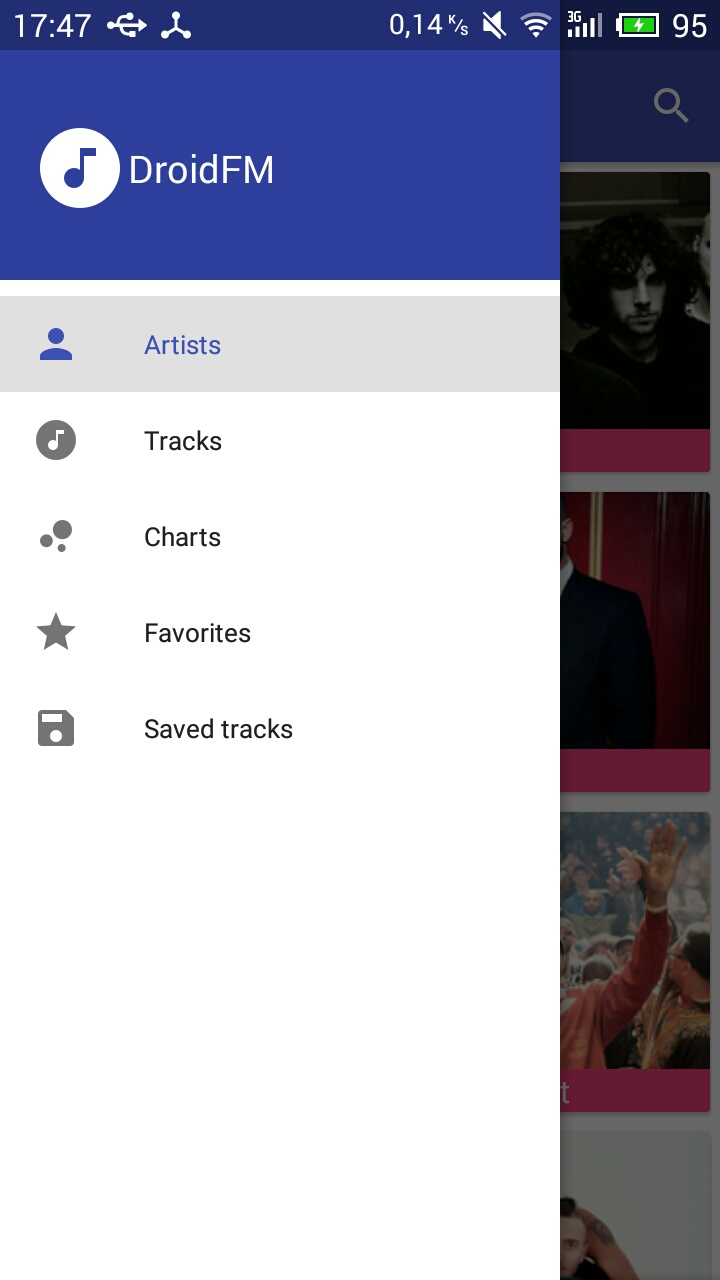
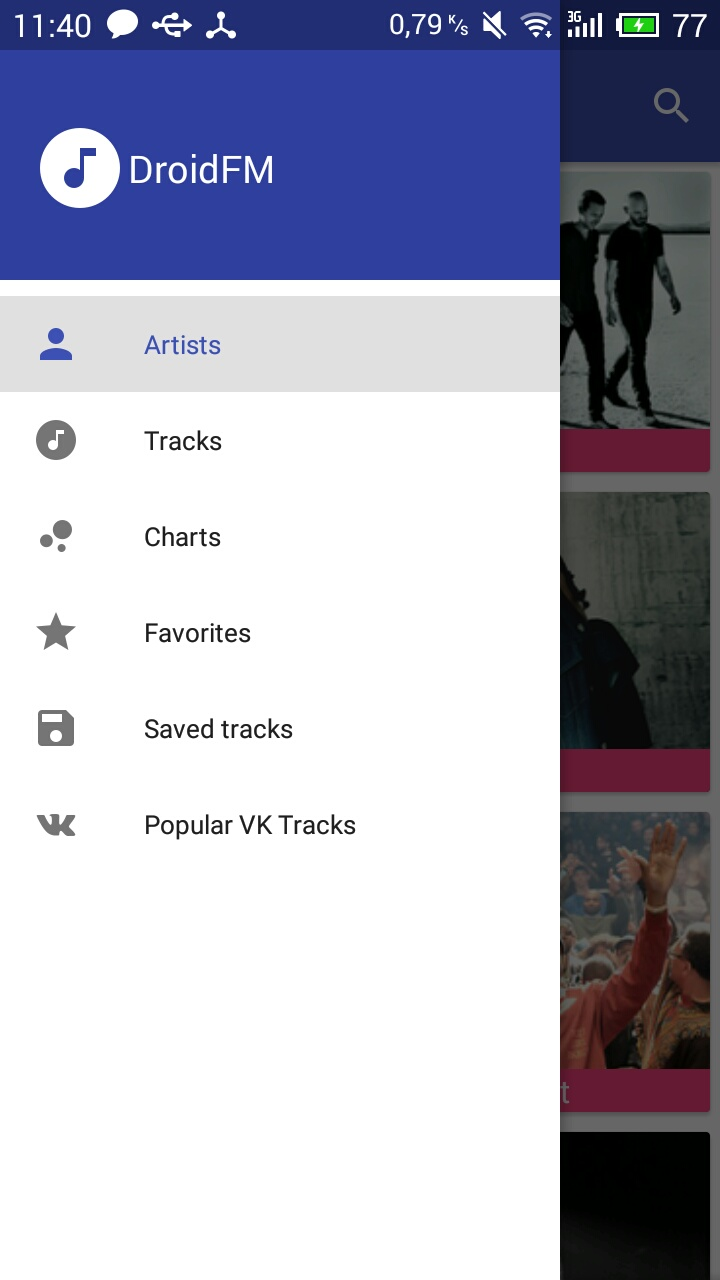
- add change and add new screen shots.

diff --git a/README.md b/README.md
@@ -26,6 +26,8 @@ Additionally this app can stream and download any tracks that are available in [
 <img src="/screen/S19.jpg" width="200">
 <img src="/screen/S20.jpg" width="200">
 <img src="/screen/S21.jpg" width="200">
+<img src="/screen/S22.jpg" width="200">
+<img src="/screen/S23.jpg" width="200">
 
 ## Requirements
 Install the following software:
